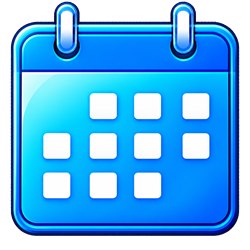
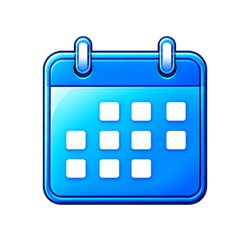
Android : passage a .NET 10 et Android 36, empreinte par AndroidX

diff --git a/MelTimeClientAndroid/Platforms/Android/MainActivity.cs b/MelTimeClientAndroid/Platforms/Android/MainActivity.cs
@@ -4,10 +4,10 @@ using Android.OS;
 
 namespace MelTimeClientAndroid;
 
-// La feuille de temps presente sept lignes et cinq colonnes : en portrait,
-// elle serait illisible sur un telephone. L'application est donc verrouillee
-// en paysage, ce qui laisse la largeur necessaire aux saisies.
-[Activity(Theme = "@style/Maui.SplashTheme", MainLauncher = true, LaunchMode = LaunchMode.SingleTop, ScreenOrientation = ScreenOrientation.Landscape, ConfigurationChanges = ConfigChanges.ScreenSize | ConfigChanges.Orientation | ConfigChanges.UiMode | ConfigChanges.ScreenLayout | ConfigChanges.SmallestScreenSize | ConfigChanges.Density)]
+// La connexion s'affiche en premier et tient en trois champs : l'activite
+// demarre donc en portrait. Les pages basculent ensuite en paysage si besoin
+// (OrientationEcran), pour eviter une rotation visible au lancement.
+[Activity(Theme = "@style/Maui.SplashTheme", MainLauncher = true, LaunchMode = LaunchMode.SingleTop, ScreenOrientation = ScreenOrientation.Portrait, ConfigurationChanges = ConfigChanges.ScreenSize | ConfigChanges.Orientation | ConfigChanges.UiMode | ConfigChanges.ScreenLayout | ConfigChanges.SmallestScreenSize | ConfigChanges.Density)]
 public class MainActivity : MauiAppCompatActivity
 {
 }

diff --git a/MelTimeClientAndroid/PageConnexion.xaml.cs b/MelTimeClientAndroid/PageConnexion.xaml.cs
@@ -54,9 +54,20 @@ public partial class PageConnexion : ContentPage
             return;
         }
 
-        var motDePasse = await _session.LireMotDePasseAsync();
+        try
+        {
+            var motDePasse = await _session.LireMotDePasseAsync();
 
-        BoutonEmpreinte.IsVisible = _session.BiometrieActivee && !string.IsNullOrEmpty(motDePasse);
+            BoutonEmpreinte.IsVisible = _session.BiometrieActivee && !string.IsNullOrEmpty(motDePasse);
+        }
+        catch (Exception ex)
+        {
+            // Le coffre chiffre peut etre invalide apres une reinstallation :
+            // Android refuse alors de rendre la cle. On repart d'une saisie.
+            System.Diagnostics.Debug.WriteLine("Coffre illisible : " + ex.Message);
+            _session.EffacerMotDePasse();
+            BoutonEmpreinte.IsVisible = false;
+        }
     }
 
     private async void BoutonConnexion_Clicked(object? sender, EventArgs e)

diff --git a/MelTimeClientAndroid/Platforms/Android/Biometrie.cs b/MelTimeClientAndroid/Platforms/Android/Biometrie.cs
@@ -29,9 +29,9 @@ public static class Biometrie
 
                 return resultat == BiometricManager.BiometricSuccess;
             }
-            catch
+            catch (Exception ex)
             {
-                // Certains appareils anciens levent une exception au lieu de repondre.
+                System.Diagnostics.Debug.WriteLine("Detection empreinte : " + ex.Message);
                 return false;
             }
         }

diff --git a/MelTimeClientAndroid/PageHorairesDefaut.xaml.cs b/MelTimeClientAndroid/PageHorairesDefaut.xaml.cs
@@ -216,6 +216,8 @@ public partial class PageHorairesDefaut : ContentPage
                 ? heure
                 : null;
 
-    private static string EnTexte(TimeSpan valeur) =>
-        valeur.ToString(@"hh\:mm", CultureInfo.InvariantCulture);
+    private static string? EnTexte(TimeSpan? valeur) =>
+        valeur is null
+            ? null
+            : valeur.Value.ToString(@"hh\:mm", CultureInfo.InvariantCulture);
 }
